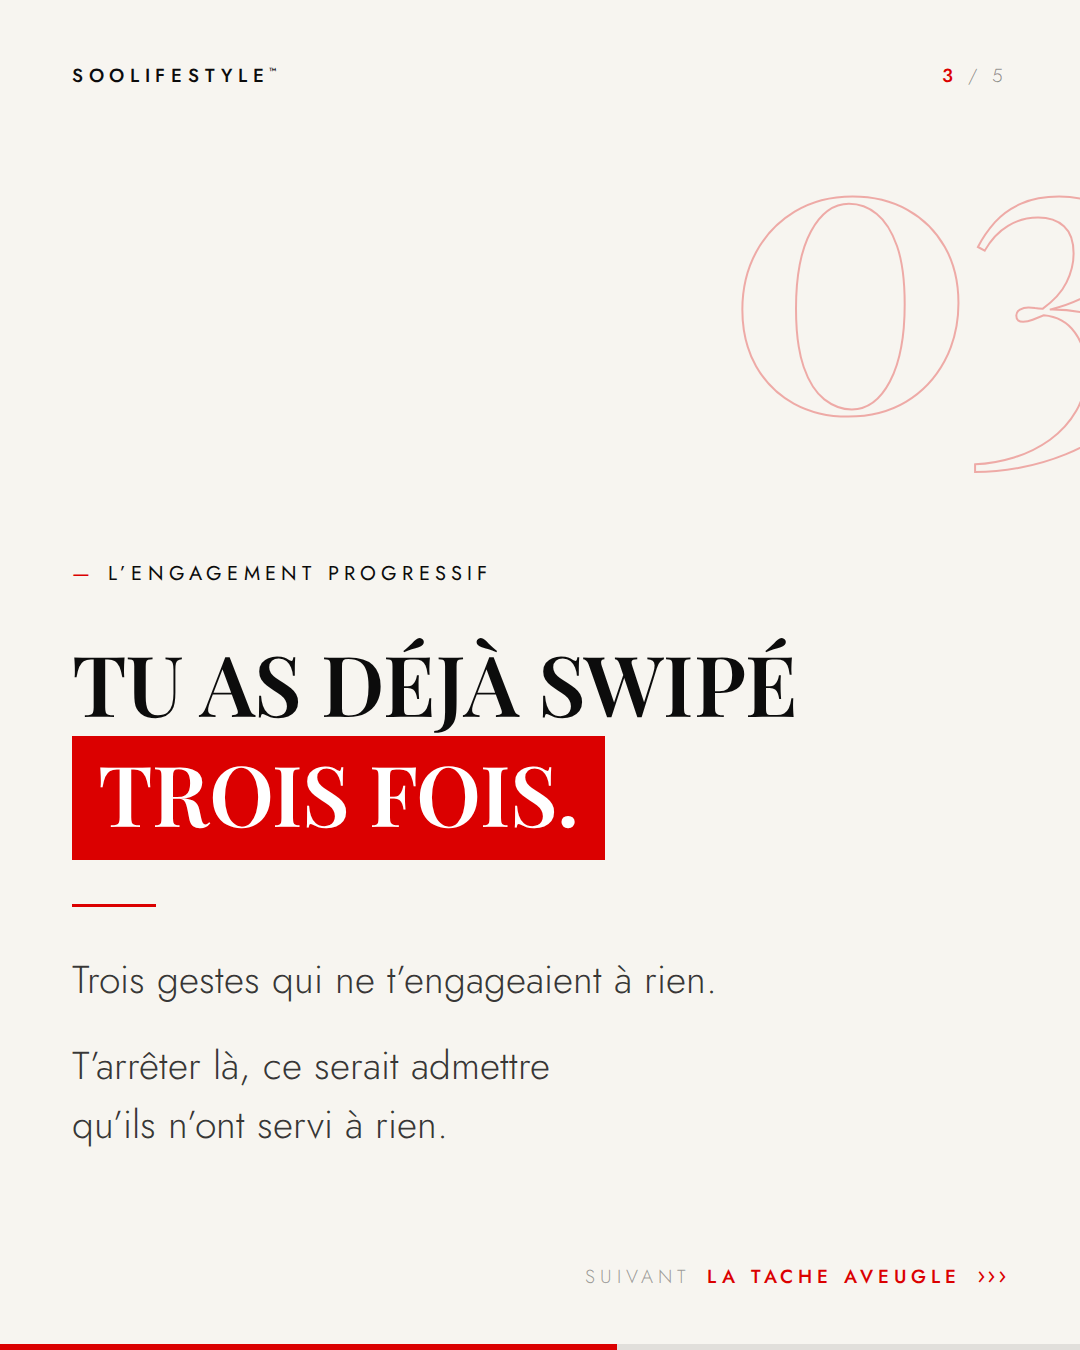
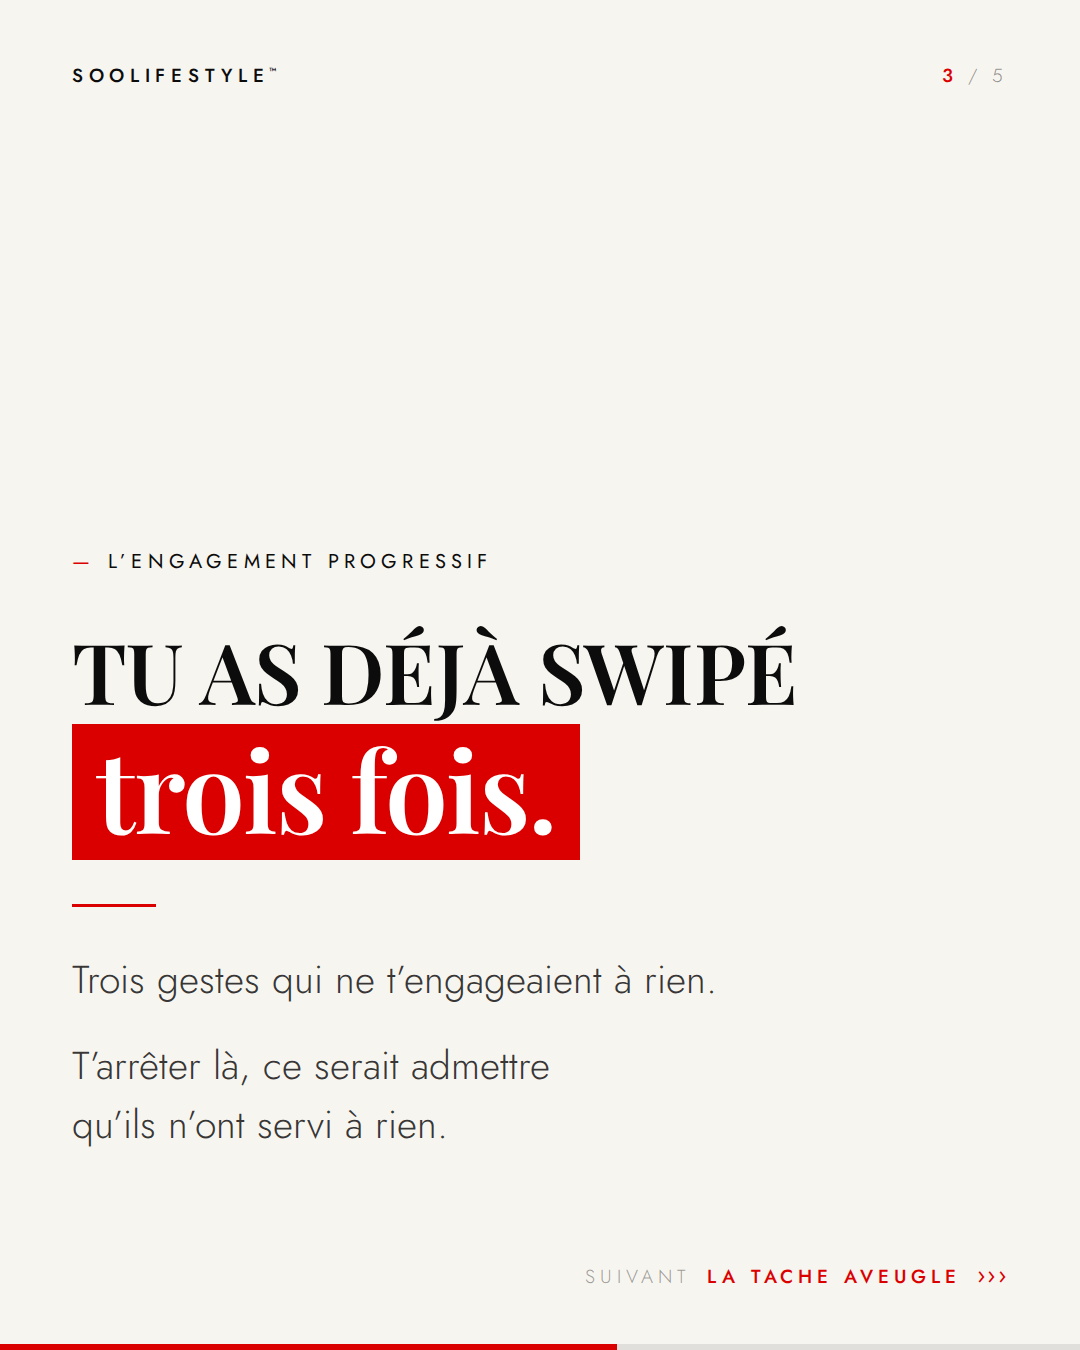
Contraste de casse, chiffres fantomes retires
Tout en capitales, c'est un seul poids : rien ne ressort.

La ligne qui pose reste en capitales. La ligne qui pique passe en
minuscules, a 1,34 fois la taille — les minuscules ont une hauteur d'x
plus basse, il faut les grossir pour qu'elles pesent autant.
Meme police, meme ligne, deux textures.

La bascule suit la meme logique : au lieu de crier en capitales rouges
elle chuchote en minuscules italiques rouges. Apres une explication,
un murmure porte plus qu'un cri.

Slide finale : "une demonstration." passe en minuscules sans surligneur,
et la taille de base descend a 74 pour que la ligne tienne d'un bloc.

Les chiffres fantomes sont retires. L'horizon fixe reste.

Claude-Session: https://claude.ai/code/session_01NxfN7rJ7DAKtxmihPtfgqw

diff --git a/instagram/carrousel-le-miroir/da.js b/instagram/carrousel-le-miroir/da.js
@@ -94,14 +94,18 @@ const CSS = `${FONTS}
   .payoff{ font-family:'Display',Georgia,serif; font-weight:600; text-transform:uppercase;
            font-size:56px; line-height:1.14; letter-spacing:-.008em;
            color:var(--red); margin-top:44px; }
+  /* sur un mécanisme, la bascule chuchote : minuscules italiques */
+  .payoff.murmure{ text-transform:none; font-weight:500; font-style:italic;
+                   font-size:68px; line-height:1.1; letter-spacing:-.012em; }
 
-  /* ── le chiffre fantôme : l'ancrage de l'intérieur.
-        En filet, coupé par le bord droit. Il dit où on en est
-        sans rien prendre à la lecture. ── */
-  .ghost{ position:absolute; z-index:0; right:-58px; top:86px;
-          font-family:'Display',Georgia,serif; font-weight:600; font-size:404px;
-          line-height:.78; letter-spacing:-.04em;
-          color:transparent; -webkit-text-stroke:2px var(--red); opacity:.30; }
+  /* ── le contraste de casse ──
+        Tout en capitales, c'est un seul poids : rien ne ressort.
+        La ligne qui pose reste en capitales ; la ligne qui pique
+        passe en minuscules, plus grande pour compenser la hauteur d'x.
+        Même mot, même police, deux textures. ── */
+  .case .chip, .case .bas{ text-transform:none; font-size:1.34em; line-height:.92;
+                           display:inline-block; letter-spacing:-.018em; }
+  .case .chip{ padding:12px 24px 20px; }
 
   /* ── l'horizon : le bloc ne flotte plus, il pose ── */
   .wrap.bas{ top:auto; bottom:196px; transform:none; }
@@ -116,9 +120,14 @@ const debordSize = (mot) => Math.min(268, Math.round(1230 / (0.6 * mot.length)))
 
 // La ligne surlignée. C'est la signature : elle est sur la couverture
 // ET sur chaque slide intérieure.
-const chipLines = (lines, hi, chipStyle = '') =>
+// `hi` : la ligne surlignée. `low` : une ligne en minuscules sans surligneur.
+const chipLines = (lines, hi, chipStyle = '', low = -1) =>
   lines
-    .map((l, i) => (i === hi ? `<span class="chip" style="${chipStyle}">${l}</span>` : l))
+    .map((l, i) => {
+      if (i === hi) return `<span class="chip" style="${chipStyle}">${l}</span>`;
+      if (i === low) return `<span class="bas">${l}</span>`;
+      return l;
+    })
     .join('<br>');
 
 // `tag` : ce qui s'affiche en haut à droite. `next` : la flèche, sauf en fin.

diff --git a/instagram/carrousel-le-miroir/rythmes.js b/instagram/carrousel-le-miroir/rythmes.js
@@ -10,7 +10,6 @@
 const DA = require('./da');
 
 const label = (s) => `<div class="label"><em>&mdash;</em>${s.label}</div>`;
-const ghost = (n) => `<div class="ghost">${String(n).padStart(2, '0')}</div>`;
 const body = (s) =>
   (s.body || []).map((p) => `<div class="body">${p.join('<br>')}</div>`).join('');
 
@@ -19,7 +18,7 @@ const R = {
   pose: (s) => `
     <div class="wrap bas">
       ${label(s)}
-      <div class="title" style="font-size:${s.size}px">${DA.chipLines(s.lines, s.hi)}</div>
+      <div class="title case" style="font-size:${s.size}px">${DA.chipLines(s.lines, s.hi)}</div>
       <div class="hr"></div>
       ${body(s)}
     </div>`,
@@ -29,7 +28,7 @@ const R = {
     <div class="wrap bas">
       ${label(s)}
       <div class="setup">${s.setup}</div>
-      <div class="huge" style="font-size:${s.size}px">${DA.chipLines(s.lines, s.hi)}</div>
+      <div class="huge case" style="font-size:${s.size}px">${DA.chipLines(s.lines, s.hi)}</div>
       ${s.close ? `<div class="body" style="margin-top:44px">${s.close.join('<br>')}</div>` : ''}
     </div>`,
 
@@ -37,14 +36,11 @@ const R = {
   bascule: (s) => `
     <div class="wrap bas">
       ${label(s)}
-      <div class="title" style="font-size:${s.size}px">${DA.chipLines(s.lines, s.hi)}</div>
+      <div class="title case" style="font-size:${s.size}px">${DA.chipLines(s.lines, s.hi)}</div>
       <div class="hr"></div>
       ${body(s)}
-      <div class="payoff">${s.payoff.join('<br>')}</div>
+      <div class="payoff murmure">${s.payoff.join('<br>')}</div>
     </div>`,
 };
 
-// Chaque rythme reçoit son numéro : le chiffre fantôme se pose derrière.
-module.exports = Object.fromEntries(
-  Object.entries(R).map(([nom, f]) => [nom, (s, n) => ghost(n) + f(s)])
-);
+module.exports = R;

diff --git a/instagram/carrousel-le-miroir/build-carrousel.js b/instagram/carrousel-le-miroir/build-carrousel.js
@@ -18,7 +18,7 @@ const N = c.slides.length;
 /* ── une slide-mécanisme : son rythme, et la promesse de la suivante ── */
 const mechanism = (s, i) => `
   <div class="sl" id="s${i + 2}">
-    ${RYTHMES[s.rythme](s, i + 1)}
+    ${RYTHMES[s.rythme](s)}
     ${DA.furniture({
       tag: `<b>${i + 1}</b> / ${N}`,
       fill: DA.fill(i + 2, TOTAL),
@@ -31,7 +31,7 @@ const mechanism = (s, i) => `
 const outro = (o) => `
   <div class="sl dark" id="s${TOTAL}">
     <div class="wrap bas">
-      <div class="title" style="font-size:${o.size}px">${DA.chipLines(o.lines, o.hi)}</div>
+      <div class="title case" style="font-size:${o.size}px">${DA.chipLines(o.lines, o.hi, '', o.low)}</div>
       <div class="hr"></div>
       ${o.body.map((p) => `<div class="body">${p.join('<br>')}</div>`).join('')}
       <div class="payoff">${o.payoff.join('<br>')}</div>

diff --git a/instagram/carrousel-le-miroir/SYSTEME.md b/instagram/carrousel-le-miroir/SYSTEME.md
@@ -124,17 +124,33 @@ par slide — le mécanisme même que le carrousel décrit.
 La dernière mécanique annonce `LA DÉMONSTRATION` : le CTA devient un rendez-vous,
 pas une interruption.
 
-### 3. Un horizon fixe et un chiffre fantôme
+### 3. Le contraste de casse
 
-Le bloc ne flotte plus au milieu : il **pose** sur une ligne d'horizon
-identique d'une slide à l'autre. Quand on swipe, le texte ne saute pas.
+Tout en capitales, c'est un seul poids : rien ne ressort.
 
-Et le haut, qui était vide, porte le numéro du mécanisme en filet rouge,
-coupé par le bord droit. `01` → `05`. Il dit où on en est sans rien
-prendre à la lecture, et il donne à l'intérieur un ancrage à lui —
-la couverture a le débord, l'intérieur a le chiffre.
+**La ligne qui pose reste en capitales. La ligne qui pique passe en
+minuscules**, à 1,34 fois la taille — les minuscules ont une hauteur d'x
+plus basse, il faut les grossir pour qu'elles pèsent autant.
 
-### 4. L'accroche grossit
+```
+CETTE PHRASE          capitales, 78 px — froid, factuel
+parlait de toi.       minuscules, 104 px, surlignées — intime, ça pique
+```
+
+Même police, même ligne, deux textures. C'est le contraste le moins cher
+et le plus efficace du système : il ne coûte ni couleur, ni élément,
+ni place.
+
+La bascule suit la même logique : au lieu de crier en capitales rouges,
+elle chuchote en **minuscules italiques rouges**. Après une explication,
+un murmure porte plus qu'un cri.
+
+### 4. Un horizon fixe
+
+Le bloc ne flotte plus au milieu : il **pose** sur une ligne identique
+d'une slide à l'autre. Quand on swipe, le texte ne saute pas.
+
+### 5. L'accroche grossit
 
 74 px sur le premier mécanisme, 88 px sur le dernier. Le carrousel accélère
 sans le dire. Personne ne le remarque, tout le monde le sent.
@@ -143,10 +159,11 @@ sans le dire. Personne ne le remarque, tout le monde le sent.
 
 ```
 — NOM DU MÉCANISME        Jost, tiret rouge, capitales espacées
-ACCROCHE EN CAPITALES     Playfair, dont UNE ligne surlignée en rouge
+LA LIGNE QUI POSE         Playfair capitales
+la ligne qui pique        Playfair minuscules, 1,34×, surlignée en rouge
 ▬                         filet rouge
 corps en Jost 300         une à trois lignes courtes
-[LA BASCULE]              capitales rouges, seulement sur le rythme bascule
+la bascule                minuscules italiques rouges, rythme bascule seul
                           SUIVANT · <le prochain> ›››
 ```
 
